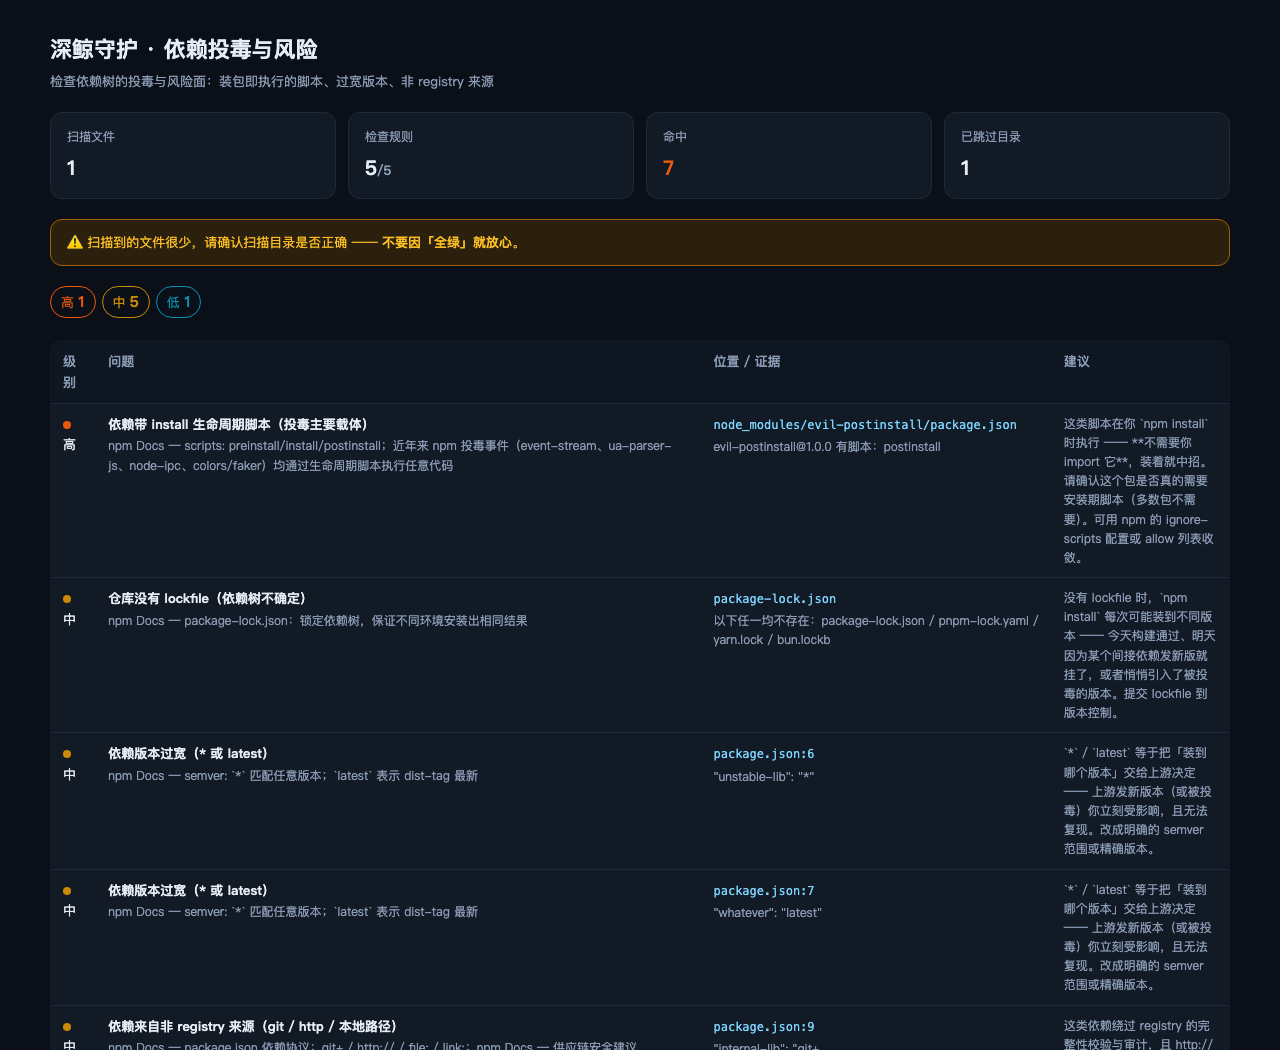
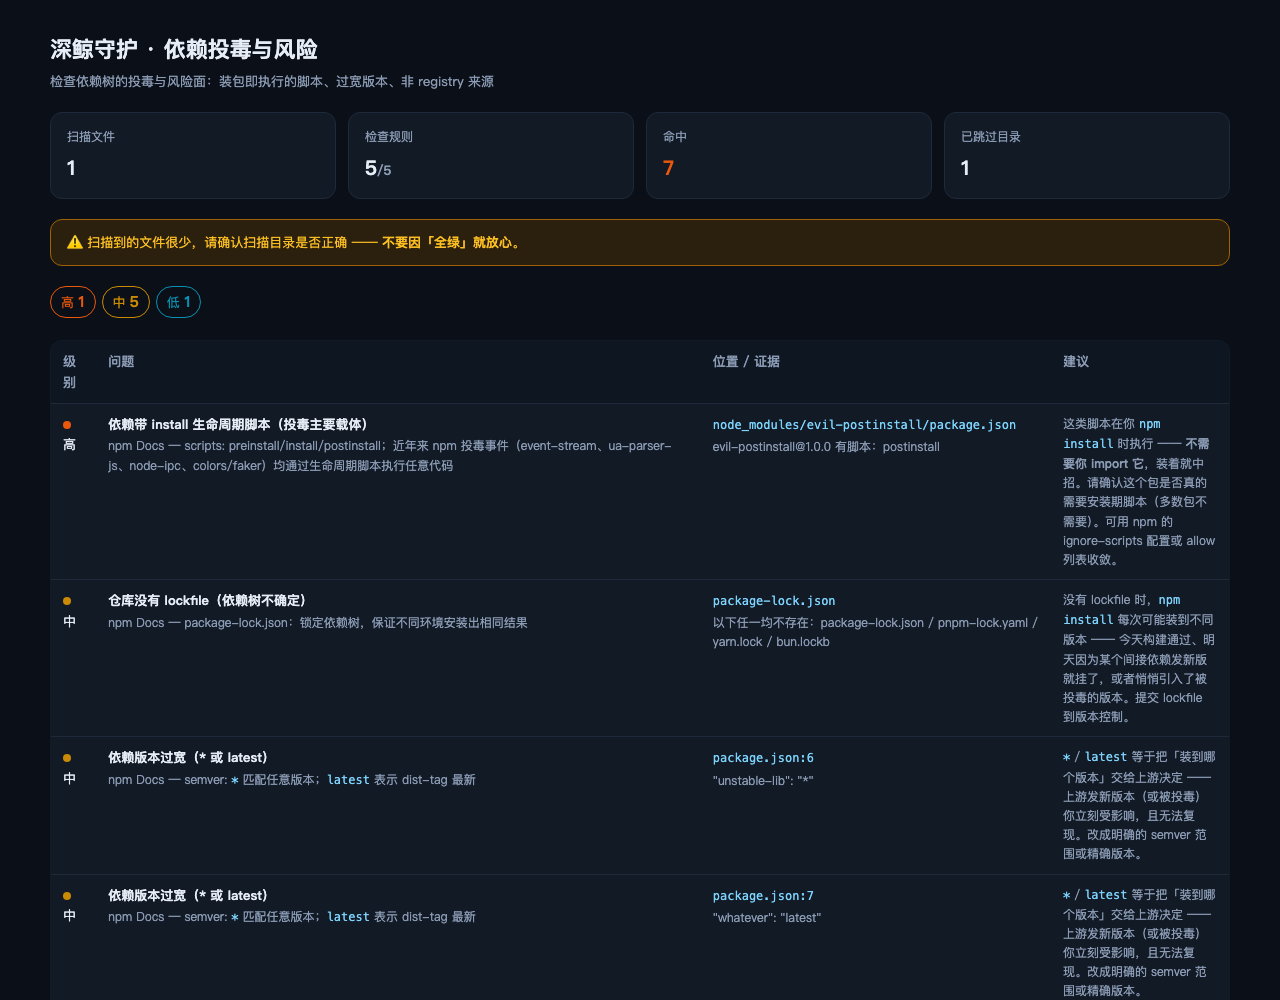
docs: 更新报告截图（core v0.4.2 渲染修复）

diff --git a/docs/report.html b/docs/report.html
@@ -50,25 +50,25 @@
         <td><span class="dot" style="--c:#ea580c"></span>高</td>
         <td><div class="t">依赖带 install 生命周期脚本（投毒主要载体）</div><div class="src">npm Docs — scripts: preinstall/install/postinstall；近年来 npm 投毒事件（event-stream、ua-parser-js、node-ipc、colors/faker）均通过生命周期脚本执行任意代码</div></td>
         <td><code>node_modules/evil-postinstall/package.json</code><div class="ev">evil-postinstall@1.0.0 有脚本：postinstall</div></td>
-        <td class="adv">这类脚本在你 `npm install` 时执行 —— **不需要你 import 它**，装着就中招。请确认这个包是否真的需要安装期脚本（多数包不需要）。可用 npm 的 ignore-scripts 配置或 allow 列表收敛。</td>
+        <td class="adv">这类脚本在你 <code>npm install</code> 时执行 —— <b>不需要你 import 它</b>，装着就中招。请确认这个包是否真的需要安装期脚本（多数包不需要）。可用 npm 的 ignore-scripts 配置或 allow 列表收敛。</td>
       </tr>
       <tr class="sev-medium">
         <td><span class="dot" style="--c:#ca8a04"></span>中</td>
         <td><div class="t">仓库没有 lockfile（依赖树不确定）</div><div class="src">npm Docs — package-lock.json：锁定依赖树，保证不同环境安装出相同结果</div></td>
         <td><code>package-lock.json</code><div class="ev">以下任一均不存在：package-lock.json / pnpm-lock.yaml / yarn.lock / bun.lockb</div></td>
-        <td class="adv">没有 lockfile 时，`npm install` 每次可能装到不同版本 —— 今天构建通过、明天因为某个间接依赖发新版就挂了，或者悄悄引入了被投毒的版本。提交 lockfile 到版本控制。</td>
+        <td class="adv">没有 lockfile 时，<code>npm install</code> 每次可能装到不同版本 —— 今天构建通过、明天因为某个间接依赖发新版就挂了，或者悄悄引入了被投毒的版本。提交 lockfile 到版本控制。</td>
       </tr>
       <tr class="sev-medium">
         <td><span class="dot" style="--c:#ca8a04"></span>中</td>
-        <td><div class="t">依赖版本过宽（* 或 latest）</div><div class="src">npm Docs — semver: `*` 匹配任意版本；`latest` 表示 dist-tag 最新</div></td>
+        <td><div class="t">依赖版本过宽（* 或 latest）</div><div class="src">npm Docs — semver: <code>*</code> 匹配任意版本；<code>latest</code> 表示 dist-tag 最新</div></td>
         <td><code>package.json:6</code><div class="ev">&quot;unstable-lib&quot;: &quot;*&quot;</div></td>
-        <td class="adv">`*` / `latest` 等于把「装到哪个版本」交给上游决定 —— 上游发新版本（或被投毒）你立刻受影响，且无法复现。改成明确的 semver 范围或精确版本。</td>
+        <td class="adv"><code>*</code> / <code>latest</code> 等于把「装到哪个版本」交给上游决定 —— 上游发新版本（或被投毒）你立刻受影响，且无法复现。改成明确的 semver 范围或精确版本。</td>
       </tr>
       <tr class="sev-medium">
         <td><span class="dot" style="--c:#ca8a04"></span>中</td>
-        <td><div class="t">依赖版本过宽（* 或 latest）</div><div class="src">npm Docs — semver: `*` 匹配任意版本；`latest` 表示 dist-tag 最新</div></td>
+        <td><div class="t">依赖版本过宽（* 或 latest）</div><div class="src">npm Docs — semver: <code>*</code> 匹配任意版本；<code>latest</code> 表示 dist-tag 最新</div></td>
         <td><code>package.json:7</code><div class="ev">&quot;whatever&quot;: &quot;latest&quot;</div></td>
-        <td class="adv">`*` / `latest` 等于把「装到哪个版本」交给上游决定 —— 上游发新版本（或被投毒）你立刻受影响，且无法复现。改成明确的 semver 范围或精确版本。</td>
+        <td class="adv"><code>*</code> / <code>latest</code> 等于把「装到哪个版本」交给上游决定 —— 上游发新版本（或被投毒）你立刻受影响，且无法复现。改成明确的 semver 范围或精确版本。</td>
       </tr>
       <tr class="sev-medium">
         <td><span class="dot" style="--c:#ca8a04"></span>中</td>
@@ -84,14 +84,14 @@
       </tr>
       <tr class="sev-low">
         <td><span class="dot" style="--c:#0891b2"></span>低</td>
-        <td><div class="t">依赖使用 &gt;= 或 &gt; 开放区间</div><div class="src">npm Docs — semver ranges：`&gt;=x.y.z` 无上界，可能跨越 breaking change</div></td>
+        <td><div class="t">依赖使用 &gt;= 或 &gt; 开放区间</div><div class="src">npm Docs — semver ranges：<code>&gt;=x.y.z</code> 无上界，可能跨越 breaking change</div></td>
         <td><code>package.json:8</code><div class="ev">&quot;old-lib&quot;: &quot;&gt;=2</div></td>
-        <td class="adv">`&gt;=1.2.3` 没有上限，跨大版本时会引入不兼容改动。改成 `^1.2.3`（允许同大版本内升级）或精确版本。</td>
+        <td class="adv"><code>&gt;=1.2.3</code> 没有上限，跨大版本时会引入不兼容改动。改成 <code>^1.2.3</code>（允许同大版本内升级）或精确版本。</td>
       </tr></tbody></table>
 
   <footer>
     <p>扫描范围：<code>tests/fixtures/fail/demo-project</code> · 1 个文件</p>
-    <p>规则库：— · 生成时间：2026-10-13 02:05:54</p>
+    <p>规则库：— · 生成时间：2026-10-13 02:06:18</p>
     <p></p>
   </footer>
 </div></body></html>
